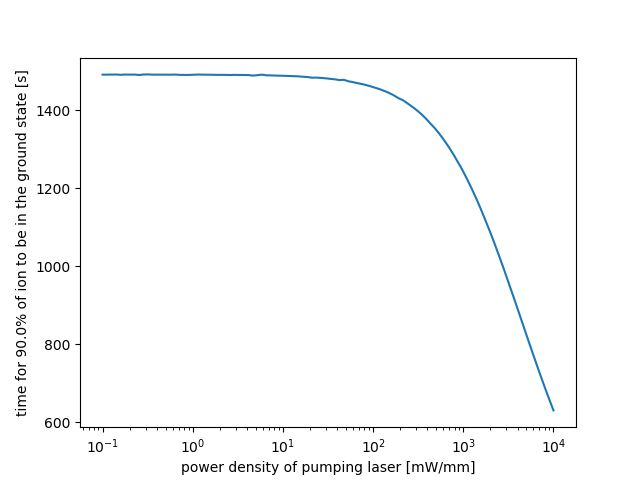
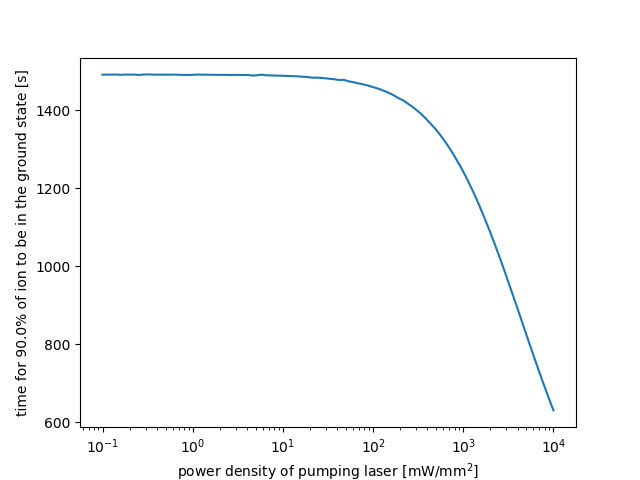
fix label

Changed region(s): [[0.2812, 0.9688, 0.75, 1.0]]

diff --git a/molecular_rotational_cooling.py b/molecular_rotational_cooling.py
@@ -232,14 +232,14 @@ class molecular_rotational_cooling:
         #plt.ylim([0,1])
         #plt.xlim([0.01,t_max])
         plt.xscale("log")
-        plt.xlabel('power density of pumping laser [mW/mm]')
+        plt.xlabel('power density of pumping laser [mW/$\mathrm{mm}^{2}$]')
         plt.ylabel('time for {}% of ion to be in the ground state [s]'.format(threshold*100))
         plt.plot(result_withoutNaN[0],result_withoutNaN[1])
         plt.show()
         plt.close('all')
         
         plt.xscale("log")
-        plt.xlabel('power density of pumping laser [mW/mm]')
+        plt.xlabel('power density of pumping laser [mW/$\mathrm{mm}^{2}$]')
         plt.ylabel('time for {}% of ion to be in the ground state [s]'.format(threshold*100))
         plt.plot(result_withoutNaN[0],result_withoutNaN[1])
         plt.savefig(file_name)
